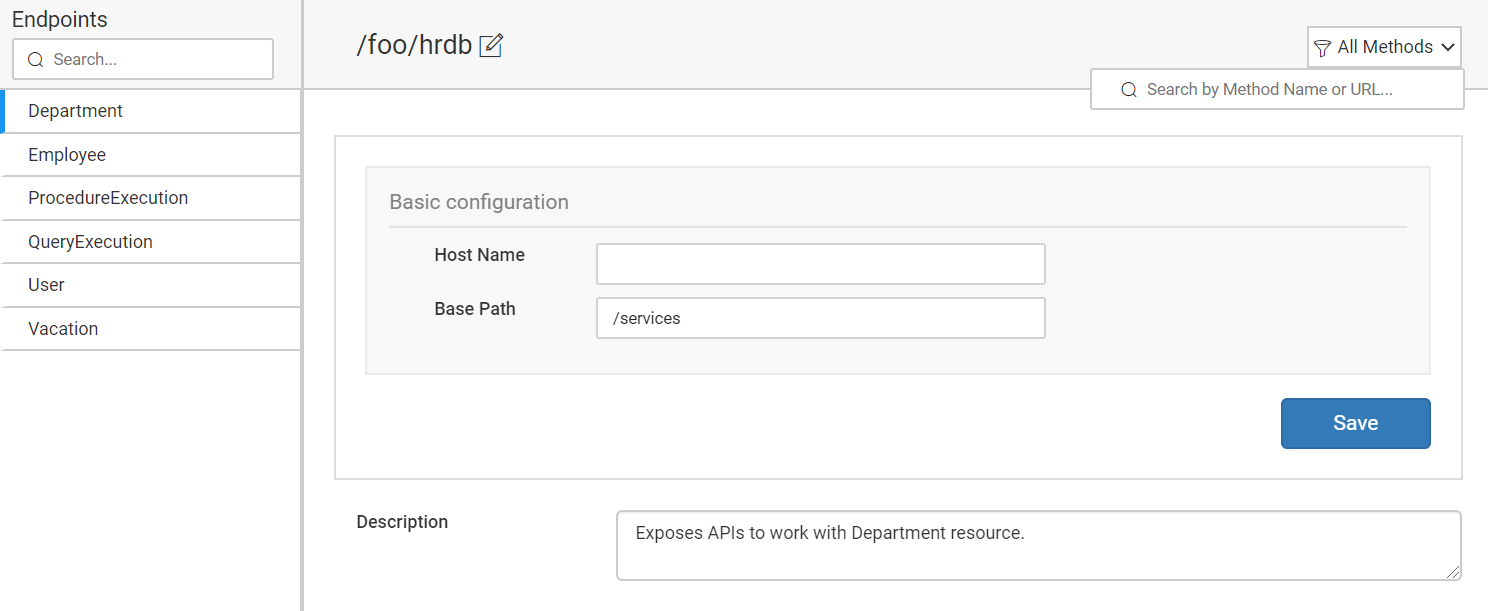
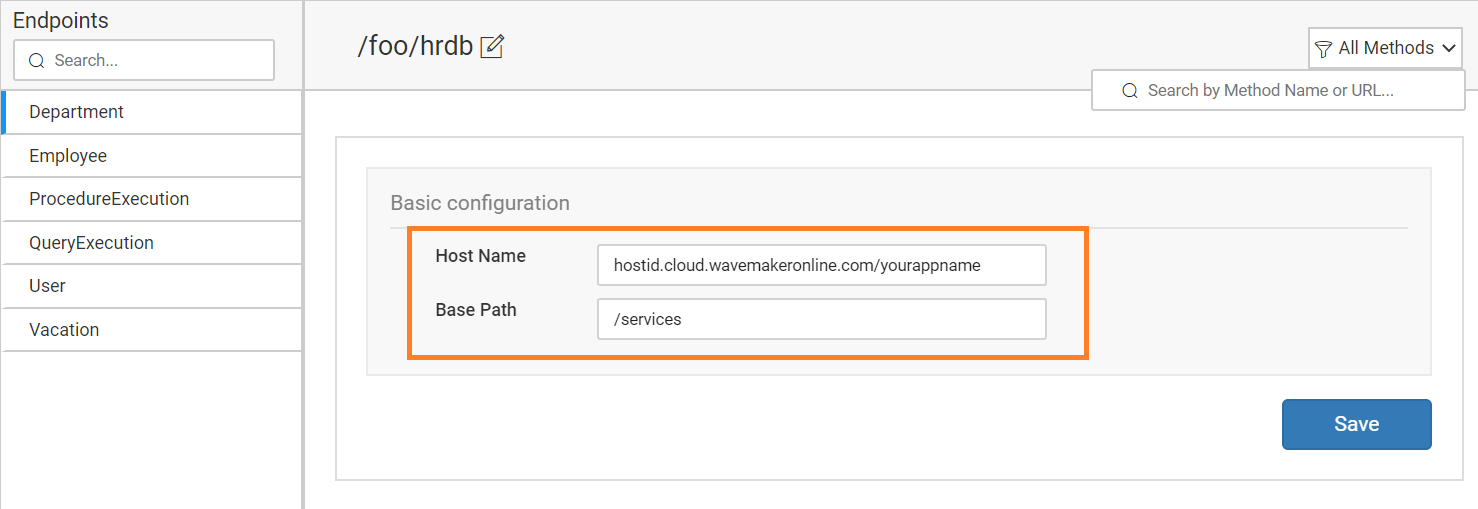
edits

diff --git a/learn/how-tos/consuming-existing-wm-api-into-another-wm-project.md b/learn/how-tos/consuming-existing-wm-api-into-another-wm-project.md
@@ -10,7 +10,7 @@ You can Import REST API endpoints via Open API/Swagger import feature.
 In this document, see how you can use an API of an existing WaveMaker app into another WaveMaker app in just a few simple steps.
 
 :::note
-This document assumes that you have a sample hrdb imported in your project. For more infromation, see [Connect to a sample DB](/learn/app-development/services/database-services/working-with-databases/#connect-to-a-db).
+This document assumes that you have a sample HRDB imported in your project. For more information, see [Connect to a sample DB](/learn/app-development/services/database-services/working-with-databases/#connect-to-a-db).
 :::
 
 ## Download Swagger from a WaveMaker Project
@@ -23,11 +23,11 @@ This document assumes that you have a sample hrdb imported in your project. For 
 
 ## Import Swagger into another Project
 
-Import the swagger into another project. For more information on how to import, see [Importing REST APIs via Swagger](/learn/app-development/services/api-designer/import-rest-apis-swagger).
+Import the downloaded swagger into another WaveMakar project. For more information on how to import, see [Importing REST APIs via Swagger](/learn/app-development/services/api-designer/import-rest-apis-swagger).
 
 ## Enter Host Name and Base Path
 
-You'll need the host name and base path when you import an API via Swagger Import.
+You will need the host name and base path when you import an API via [Swagger Import](/learn/app-development/services/api-designer/import-rest-apis-swagger).
 
 :::note
 Ensure that the application is deployed before you could use the API. For more information on how to deploy an app, see [One-Click Deployment](/learn/app-development/deployment/one-click-deployment).
@@ -35,7 +35,7 @@ Ensure that the application is deployed before you could use the API. For more i
 
 ![updating host and basepath](/learn/assets/update-host-basepath.png)
 
-- Enter the **Host URL**. The host is the URL where the app is hosted. For example, `hostid.cloud.wavemakeronline.com/yourappname`.
+- Enter the **Host Name**. The host is the URL where the app is hosted. For example, `hostid.cloud.wavemakeronline.com/yourappname`.
 - Enter the **Base Path**. For example, `/services` is the basepath for HRDB.
 - Click **Save**.
 
